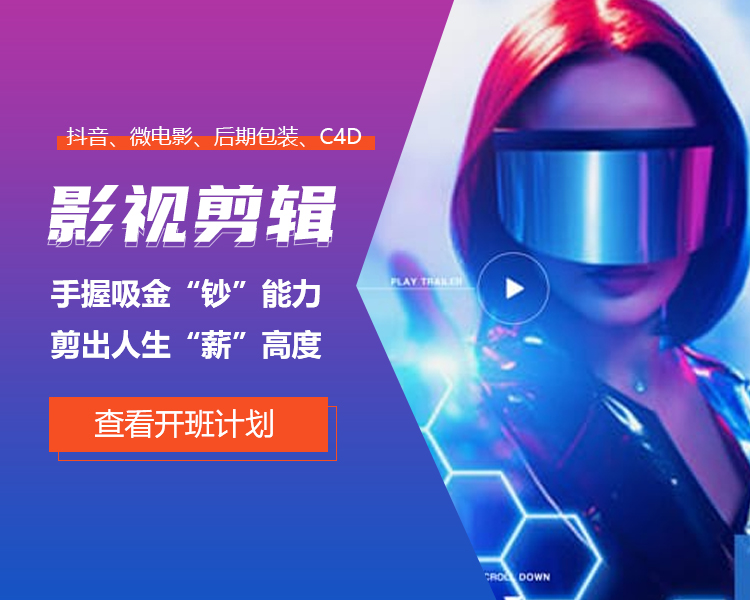
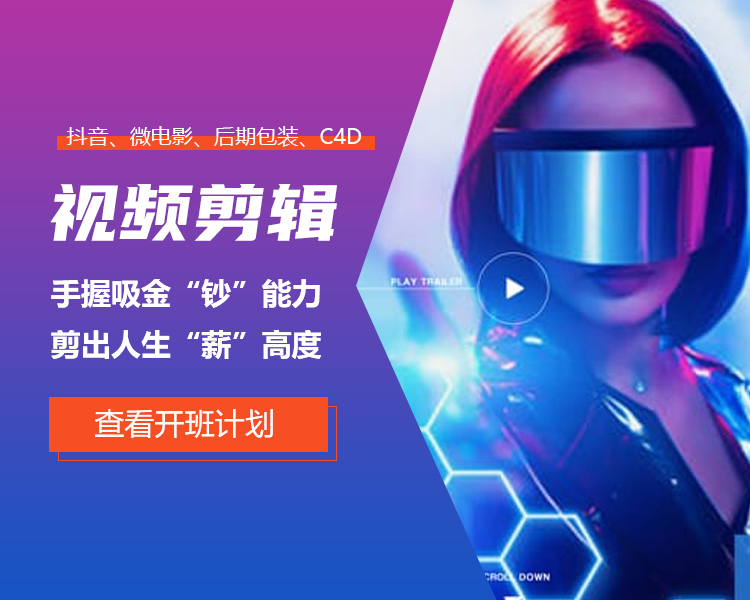
同步

Changed region(s): [[0.0613, 0.3, 0.46, 0.42]]

diff --git a/src/views/jingjiadt/ysjjdt.html b/src/views/jingjiadt/ysjjdt.html
@@ -361,7 +361,7 @@
             <div class="film-editing-sec1">
                 <div class="container">
                     <div class="section-title">
-                        为什么要成为<br/>影视剪辑师？
+                        为什么要学视频剪辑？
                     </div>
                     <div class="section-serial">
                         <div class="section-serial-number">01</div>
@@ -432,7 +432,7 @@
                             岗位薪资高、晋升快
                         </div>
                     </div>
-                    <img src="/assets/images/yingshi/ysjj/xz1.png?v=1595986561652" alt="">
+                    <img src="/assets/images/yingshi/ysjj/xz.png?v=1595986561652" alt="">
                     <div class="section-btn">
                         <a class="btn doyoo-btn">测一测自己适合哪类岗位</a>
                     </div>

diff --git a/src/pages/jingjiadt/ysjjdt.html b/src/pages/jingjiadt/ysjjdt.html
@@ -22,7 +22,7 @@
             <div class="film-editing-sec1">
                 <div class="container">
                     <div class="section-title">
-                        为什么要成为<br/>影视剪辑师？
+                        为什么要学视频剪辑？
                     </div>
                     <div class="section-serial">
                         <div class="section-serial-number">01</div>
@@ -93,7 +93,7 @@
                             岗位薪资高、晋升快
                         </div>
                     </div>
-                    <img src="/assets/images/yingshi/ysjj/xz1.png" alt="">
+                    <img src="/assets/images/yingshi/ysjj/xz.png" alt="">
                     <div class="section-btn">
                         <a class="btn doyoo-btn">测一测自己适合哪类岗位</a>
                     </div>
